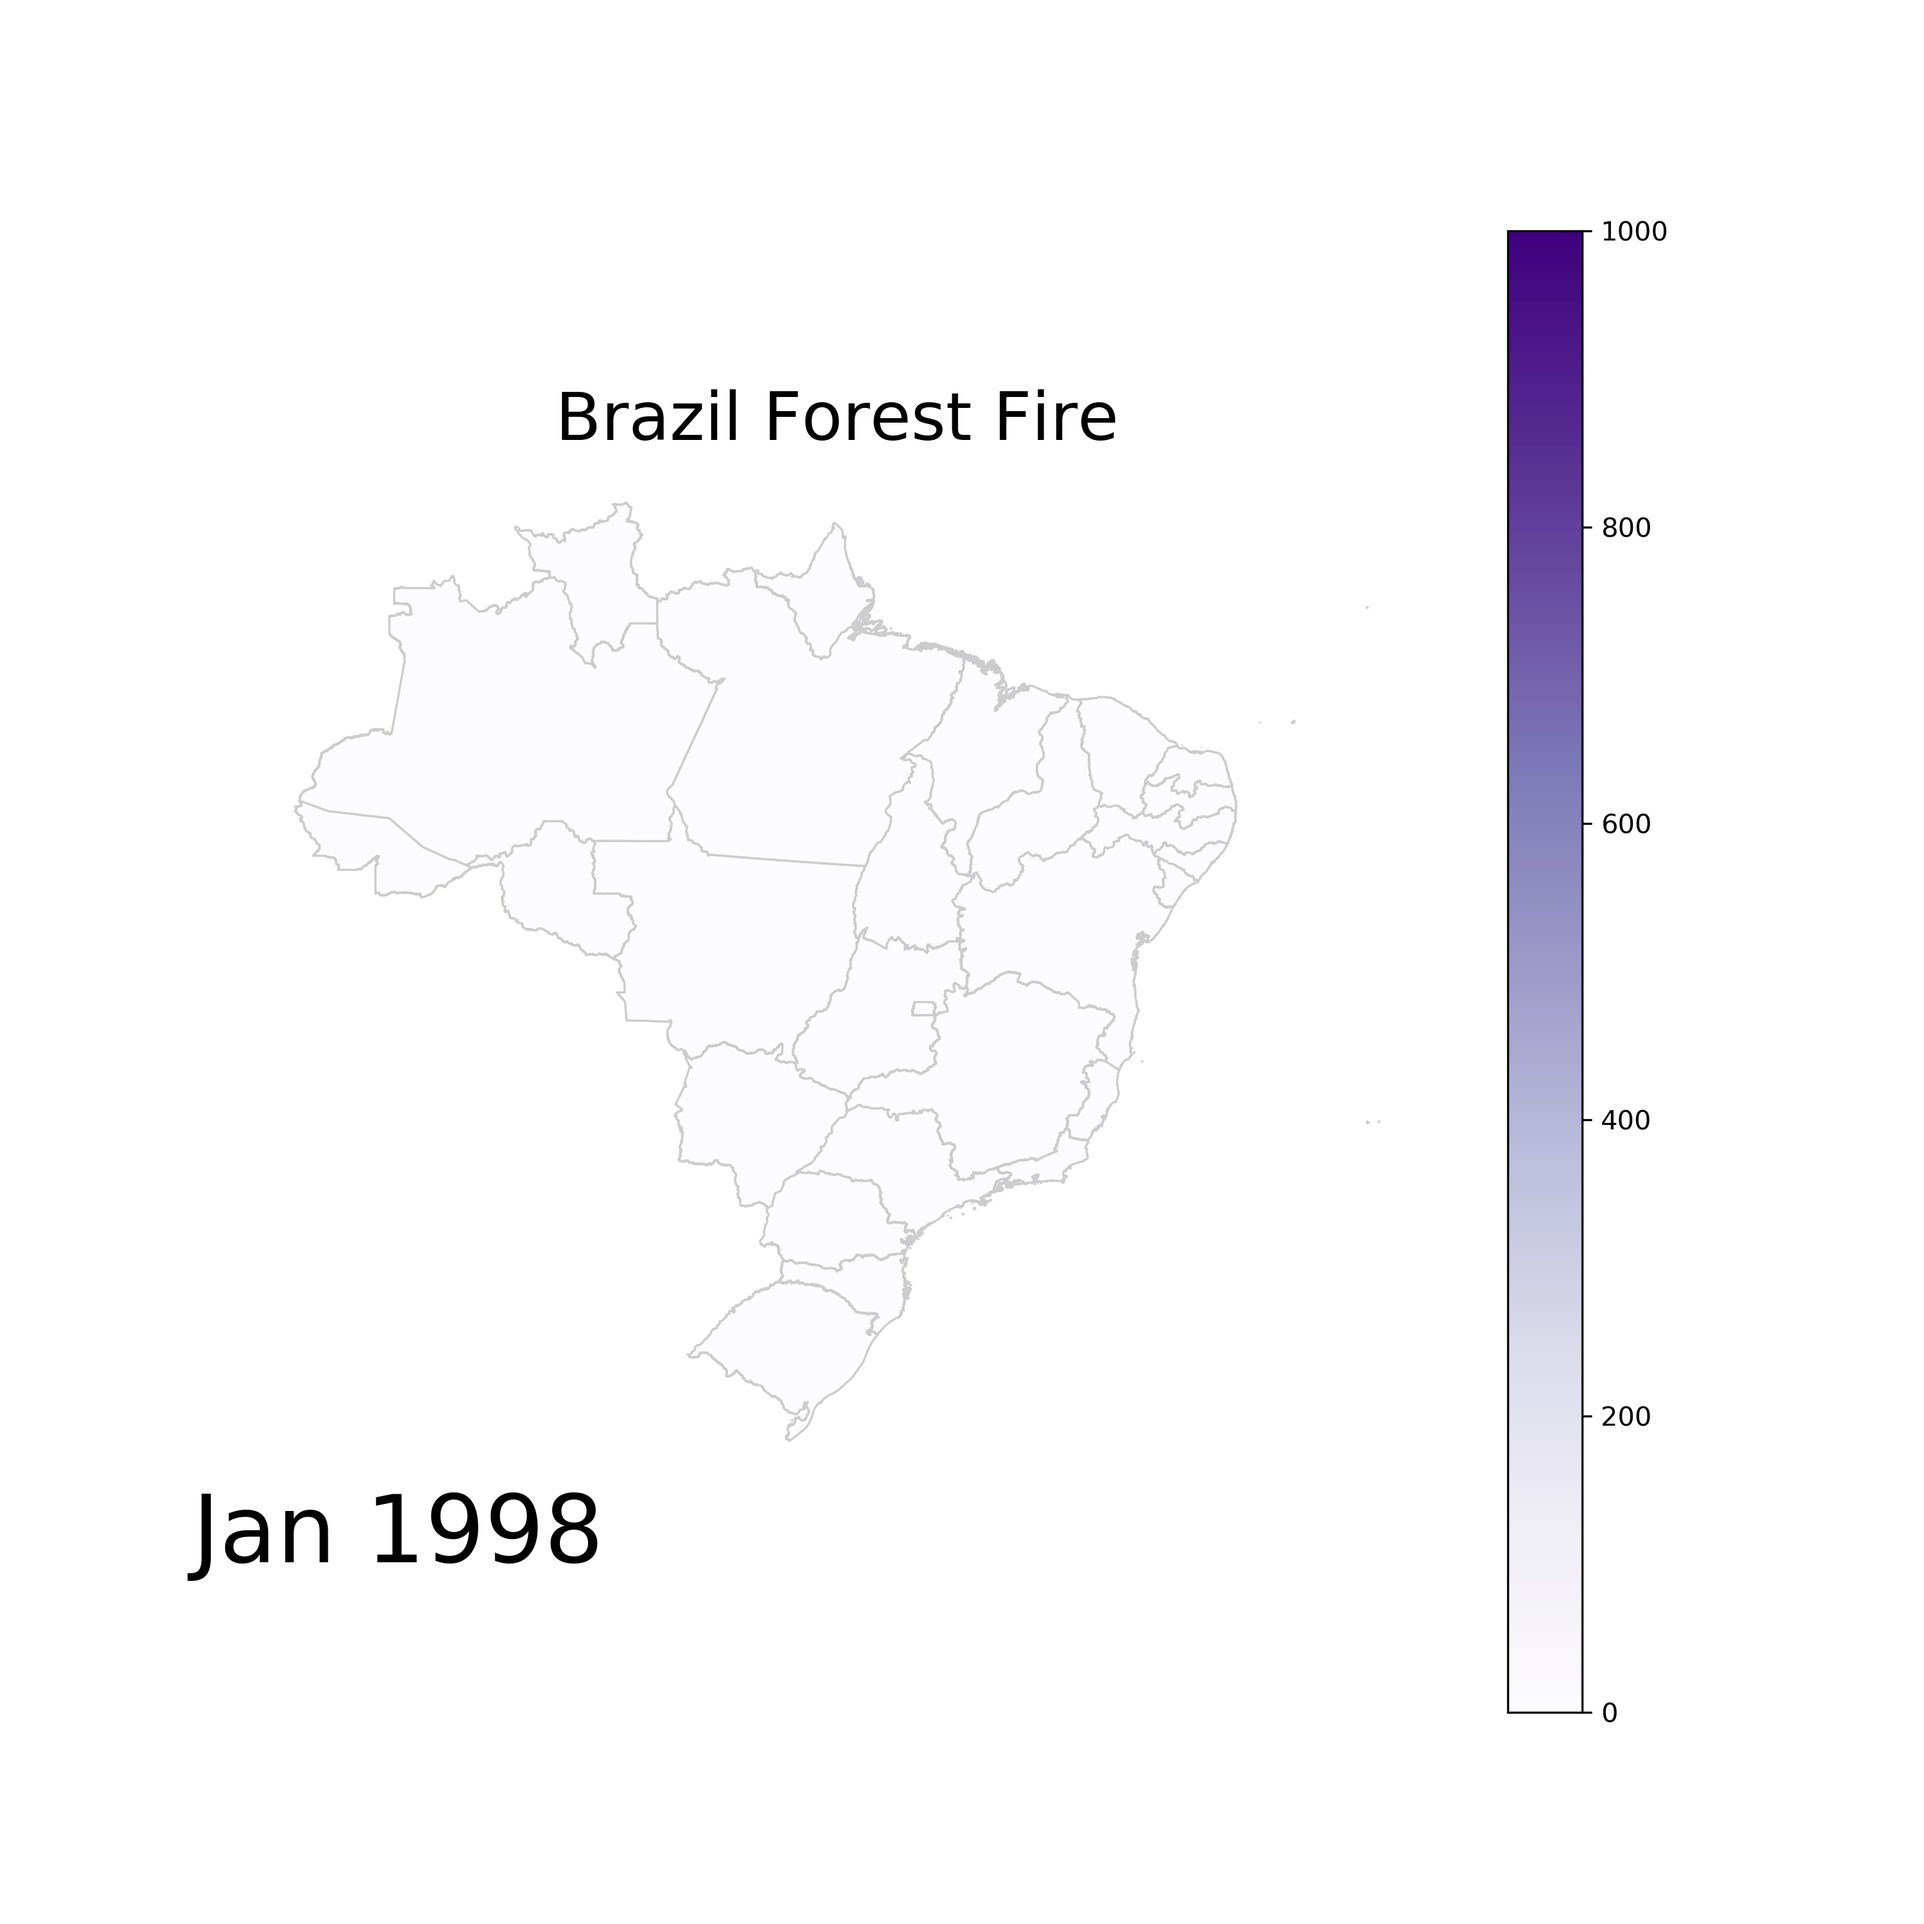
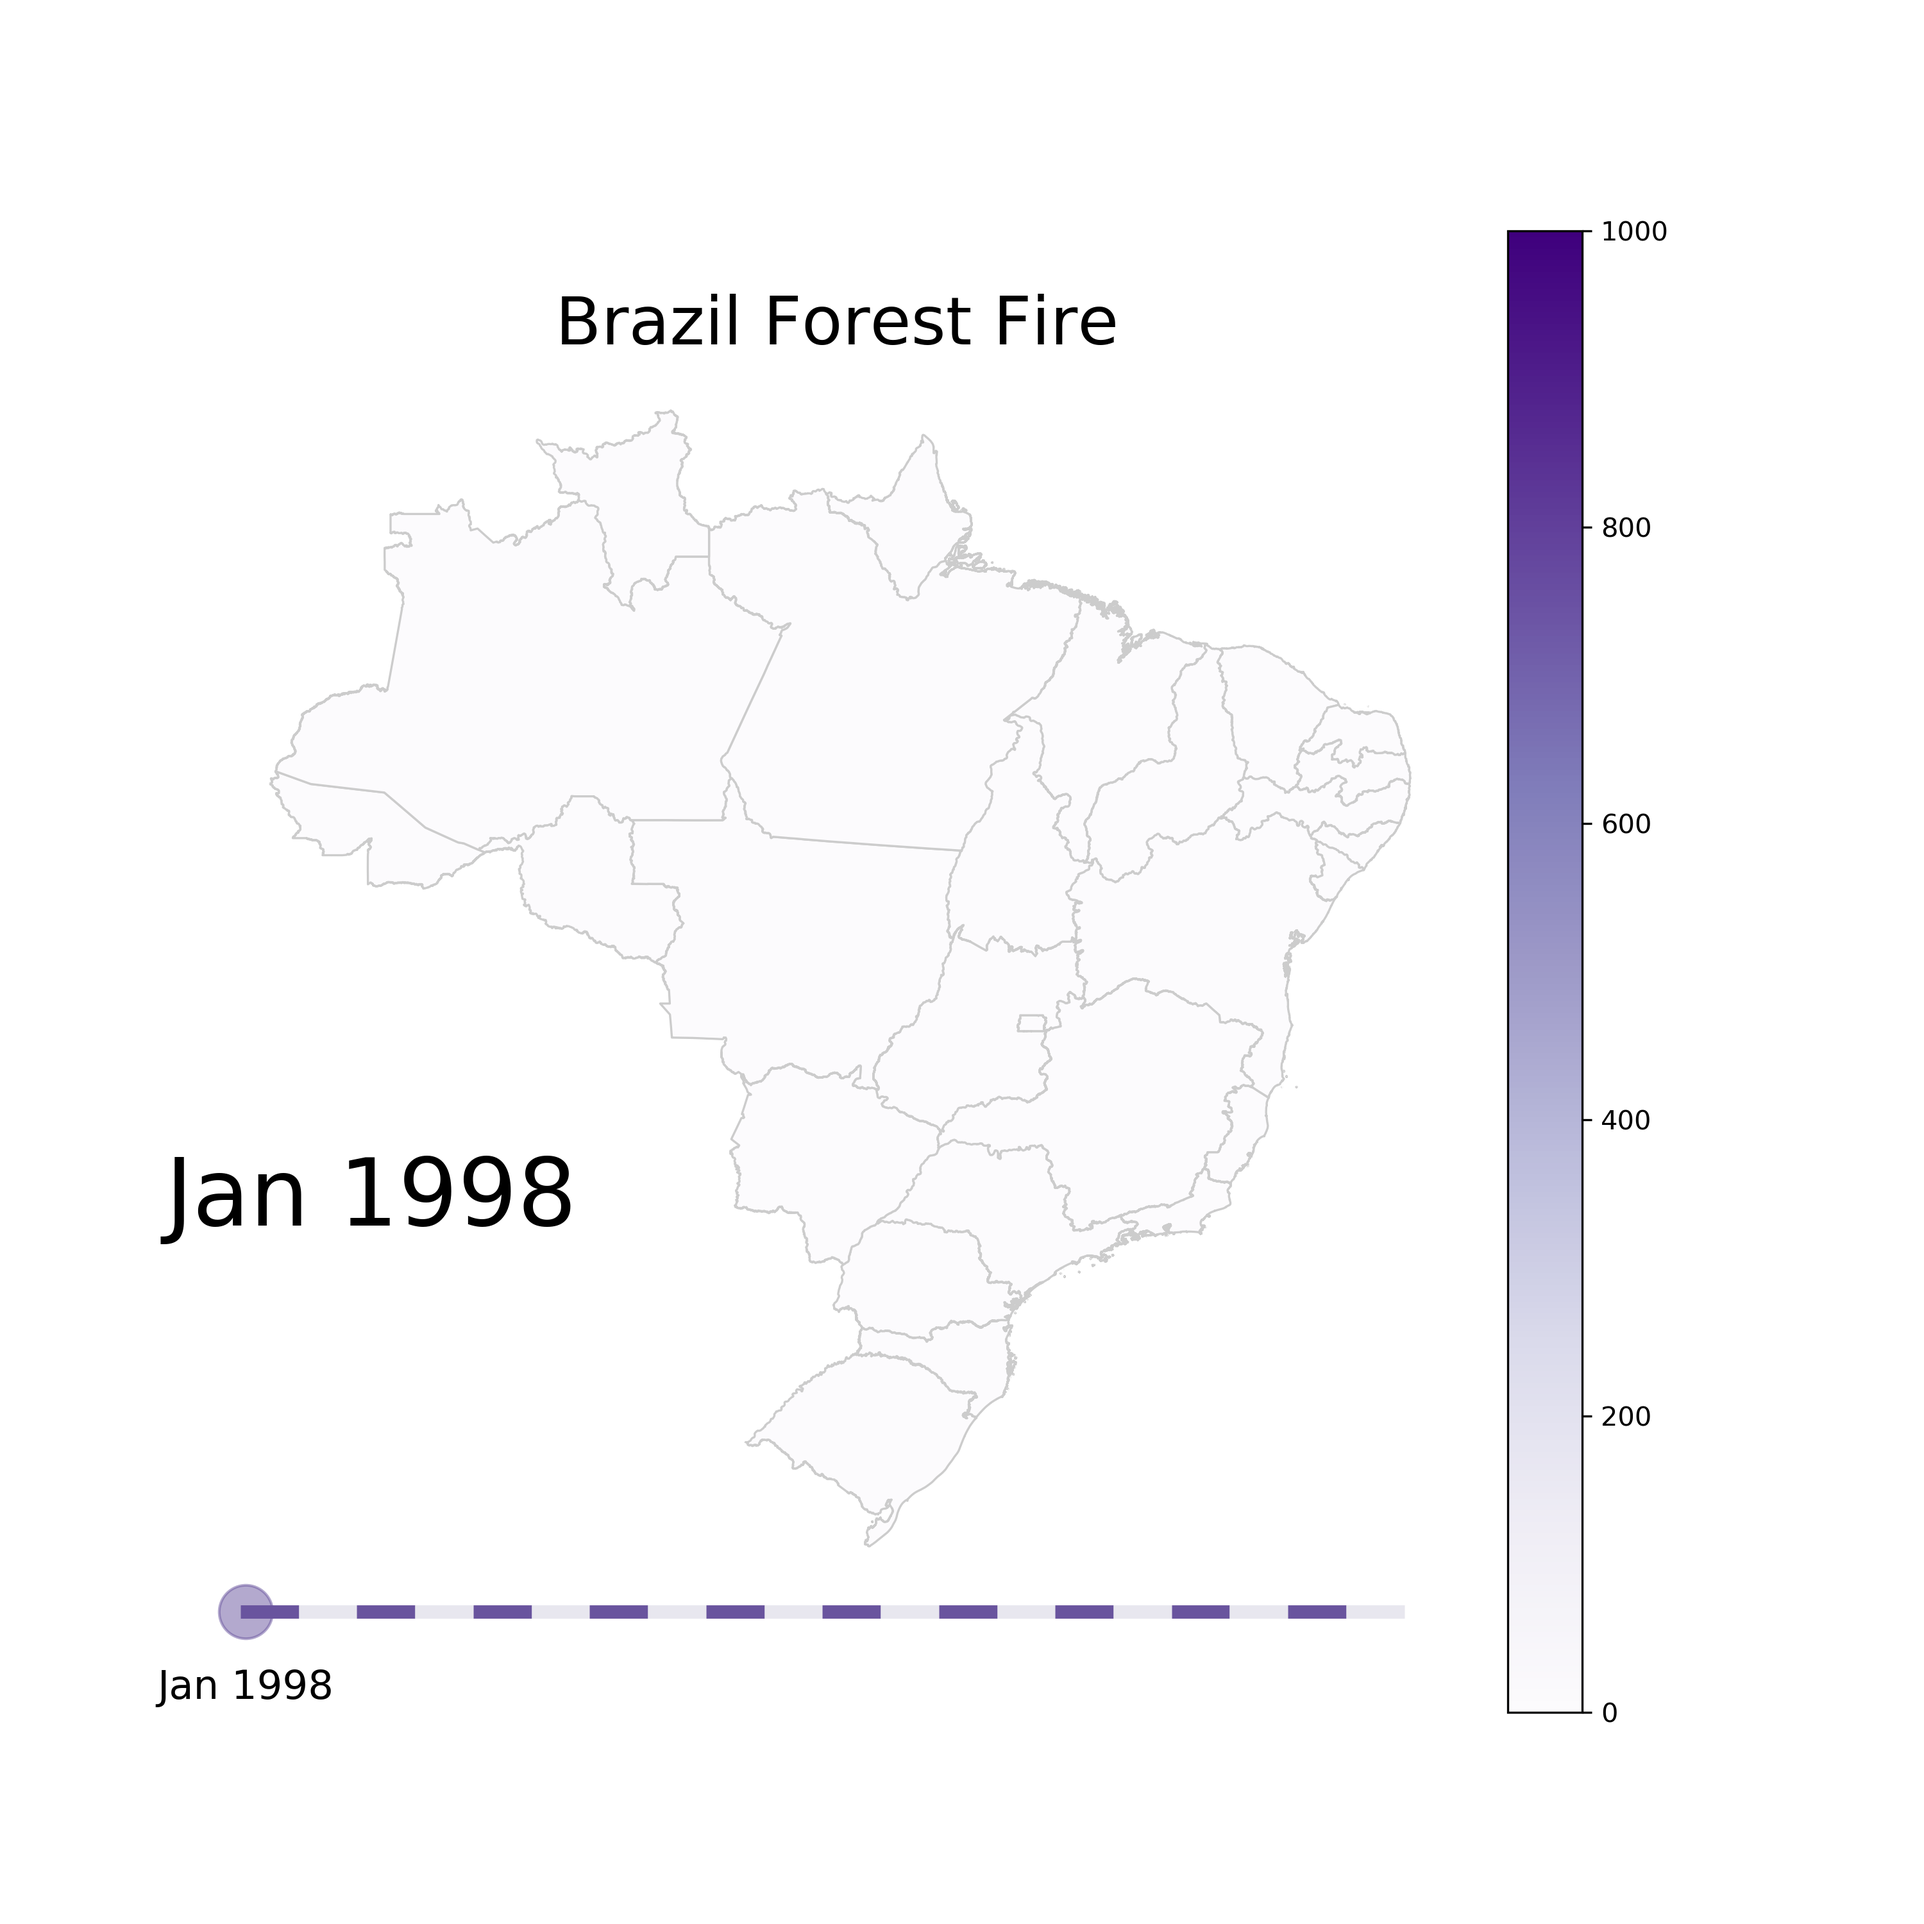
Update Python: Produce map sequence

diff --git a/test.py b/test.py
@@ -45,7 +45,7 @@ not1.any()                               # All values in (column 0 & 1) is 1
 df = df.iloc[:, 0:4]
 
 
-# 2. Month: Portugese -> English
+# 2. Month: Portugese -> Number
 month = list(range(1, 13))
 month = list(map(lambda x: str(x).zfill(2), month))
 foo = pd.DataFrame({"month": df.iloc[:, 2].unique(),
@@ -79,9 +79,9 @@ df["name"].value_counts()
 # Paraiba       = 239 * 2 = 478
 # The only duplication occured in Alagoas:
 d = df[df.name == "Alagoas"]
-d[d.duplicated()]
+duplicate = d[d.duplicated()].index
 
-df = df.drop(index=259, axis=1)
+df = df.drop(index=duplicate, axis=1)
 df["name"].value_counts()  # Check for deletion
 
 # 4. State: Replace with actual portugese name
@@ -98,12 +98,41 @@ state_por = state_por.iloc[index]
 
 df.name = [x for item in state_por for x in repeat(item, 239)]
 
-## Try plot map with 1 example
-# right = df.query("year == 2017 and month == '11'")[["name", "number"]]
-# plot_df = map_df.copy()
-# plot_df = pd.merge(plot_df, right, on = "name", how = "left")
+'''# Try plot map with 1 example
+right = df.query("year == 2017 and month == '11'")[["name", "number"]]
+plot_df = map_df.copy()
+plot_df = pd.merge(plot_df, right, on = "name", how = "left")
 
-# plot_df.plot(column = "number", cmap = "Purples", figsize = (10, 10), linewidth = 0.8, edgecolor = "0.8", vmin = 0, vmax = 900, legend = True, norm = plt.Normalize(vmin = 0, vmax = 900))
+fig = plot_df.plot(column = "number", cmap = "Purples", figsize = (10, 10), linewidth = 0.8, edgecolor = "0.8", vmin = 0, vmax = 900, legend = True, norm = plt.Normalize(vmin = 0, vmax = 900))
+
+## Legend with no upper bound
+# fig = plot_df.plot(column = "number", cmap = "Purples", figsize = (10, 10), linewidth = 0.8, edgecolor = "0.8", vmin = 0, vmax = 900, norm = plt.Normalize(vmin = 0, vmax = 900))
+# ax = plt.gca()
+# im = ax.imshow(np.arange(0,1000).reshape(10,100), cmap = "Purples")
+# plt.colorbar(im,fraction=0.046, pad=0.04)
+
+fig.axis("off")
+fig.set_title('Brazil Forest Fire', fontdict={'fontsize': '25', 'fontweight' : '3'})
+
+mon = int(str(201711)[4:])
+year = str(201711)[:4]
+eng_month = ["Jan", "Feb", "Mar", "Apr", "May", "Jun", "Jul", "Aug", "Sep", "Oct", "Nov", "Dec"]
+annotation = eng_month[mon-1] + " " + year
+x_coord = 2 * (int(year) + mon/12) - 4071
+fig.annotate(annotation, xy=(.3, .4), xycoords='figure fraction', horizontalalignment='right',  verticalalignment ='top', fontsize=35)
+fig.plot(x_coord, -36, "o", color = "#69549E", markersize = 20, alpha = 0.5, clip_on=False, zorder = 100)
+fig.text(x_coord, -39, annotation, horizontalalignment = "center", fontsize = 15)
+
+plt.ylim(-35,7)
+plt.xlim(-75,-34)
+
+for n in range(1, 21) :
+    x_coord = -75 + (n - 1) * 2
+    color = '#69549E' if n % 2 else '#E8E7EF'
+    plt.hlines(-36, x_coord, x_coord + 2, colors=color, lw=5, clip_on = False, zorder = 100)
+
+plt.show()
+'''
 
 ## Plot multiple maps
 vmin = int(math.floor(min(df.number)/100))*100
@@ -119,24 +148,53 @@ wide_df = wide_df.pivot(index="name", columns="time", values="number")
 
 plot_df = pd.merge(map_df, wide_df, on="name", how="left")
 
-year_list = wide_df.columns[:3]
+year_list = wide_df.columns
 
 eng_month = ["Jan", "Feb", "Mar", "Apr", "May", "Jun", "Jul", "Aug", "Sep", "Oct", "Nov", "Dec"]
-for year in year_list :
-    fig = plot_df.plot(column = year, cmap = "Purples", figsize = (10, 10), linewidth = 0.8, edgecolor = "0.8", vmin = vmin, vmax = vmax, legend = True, norm = plt.Normalize(vmin = vmin, vmax = vmax))
+for now in year_list :
+    fig = plot_df.plot(column = now, cmap = "Purples", figsize = (10, 10), linewidth = 0.8, edgecolor = "0.8", vmin = vmin, vmax = vmax, legend = True, norm = plt.Normalize(vmin = vmin, vmax = vmax))
 
     fig.axis("off")
     fig.set_title('Brazil Forest Fire', fontdict={'fontsize': '25', 'fontweight' : '3'})
 
-    mon = int(str(year)[5:])
-    annotation = eng_month[mon-1] + " " + str(year)[:4]
-    fig.annotate(annotation, xy=(0.1, .225), xycoords='figure fraction', horizontalalignment='left',  verticalalignment ='top', fontsize=35)
+    mon = int(str(now)[4:])
+    year = str(now)[:4]
+    annotation = eng_month[mon-1] + " " + year
+    x_coord = 2 * (int(year) + mon/12) - 4071
+    fig.annotate(annotation, xy=(.3, .4), xycoords='figure fraction', horizontalalignment='right',  verticalalignment ='top', fontsize=35)
+    fig.plot(x_coord, -36, "o", color = "#69549E", markersize = 20, alpha = 0.5, clip_on=False, zorder = 100)
+    fig.text(x_coord, -39, annotation, horizontalalignment="center", fontsize=15)
 
-    filepath = os.path.join("maps", str(year)+'.png')
+    plt.ylim(-35,7)
+    plt.xlim(-75,-34)
+
+    for n in range(1, 21) :
+        x_coord = -75 + (n - 1) * 2
+        color = '#69549E' if n % 2 else '#E8E7EF'
+        plt.hlines(-36, x_coord, x_coord + 2, colors=color, lw=5, clip_on = False, zorder = 100)
+
+    filepath = os.path.join("maps", str(now)+'.png')
     chart = fig.get_figure()
     chart.savefig(filepath, dpi=300)
 
-    del fig
-    del chart
+    plt.close()
 
 print("done")
+
+
+
+from PIL import Image
+import glob
+ 
+# Create the frames
+frames = []
+imgs = glob.glob("maps/*.png")[:5]
+for i in imgs:
+    new_frame = Image.open(i)
+    frames.append(new_frame)
+ 
+# Save into a GIF file that loops forever
+frames[0].save('png_to_gif.gif', format='GIF',
+               append_images=frames[1:],
+               save_all=True,
+               duration=150, loop=0)
